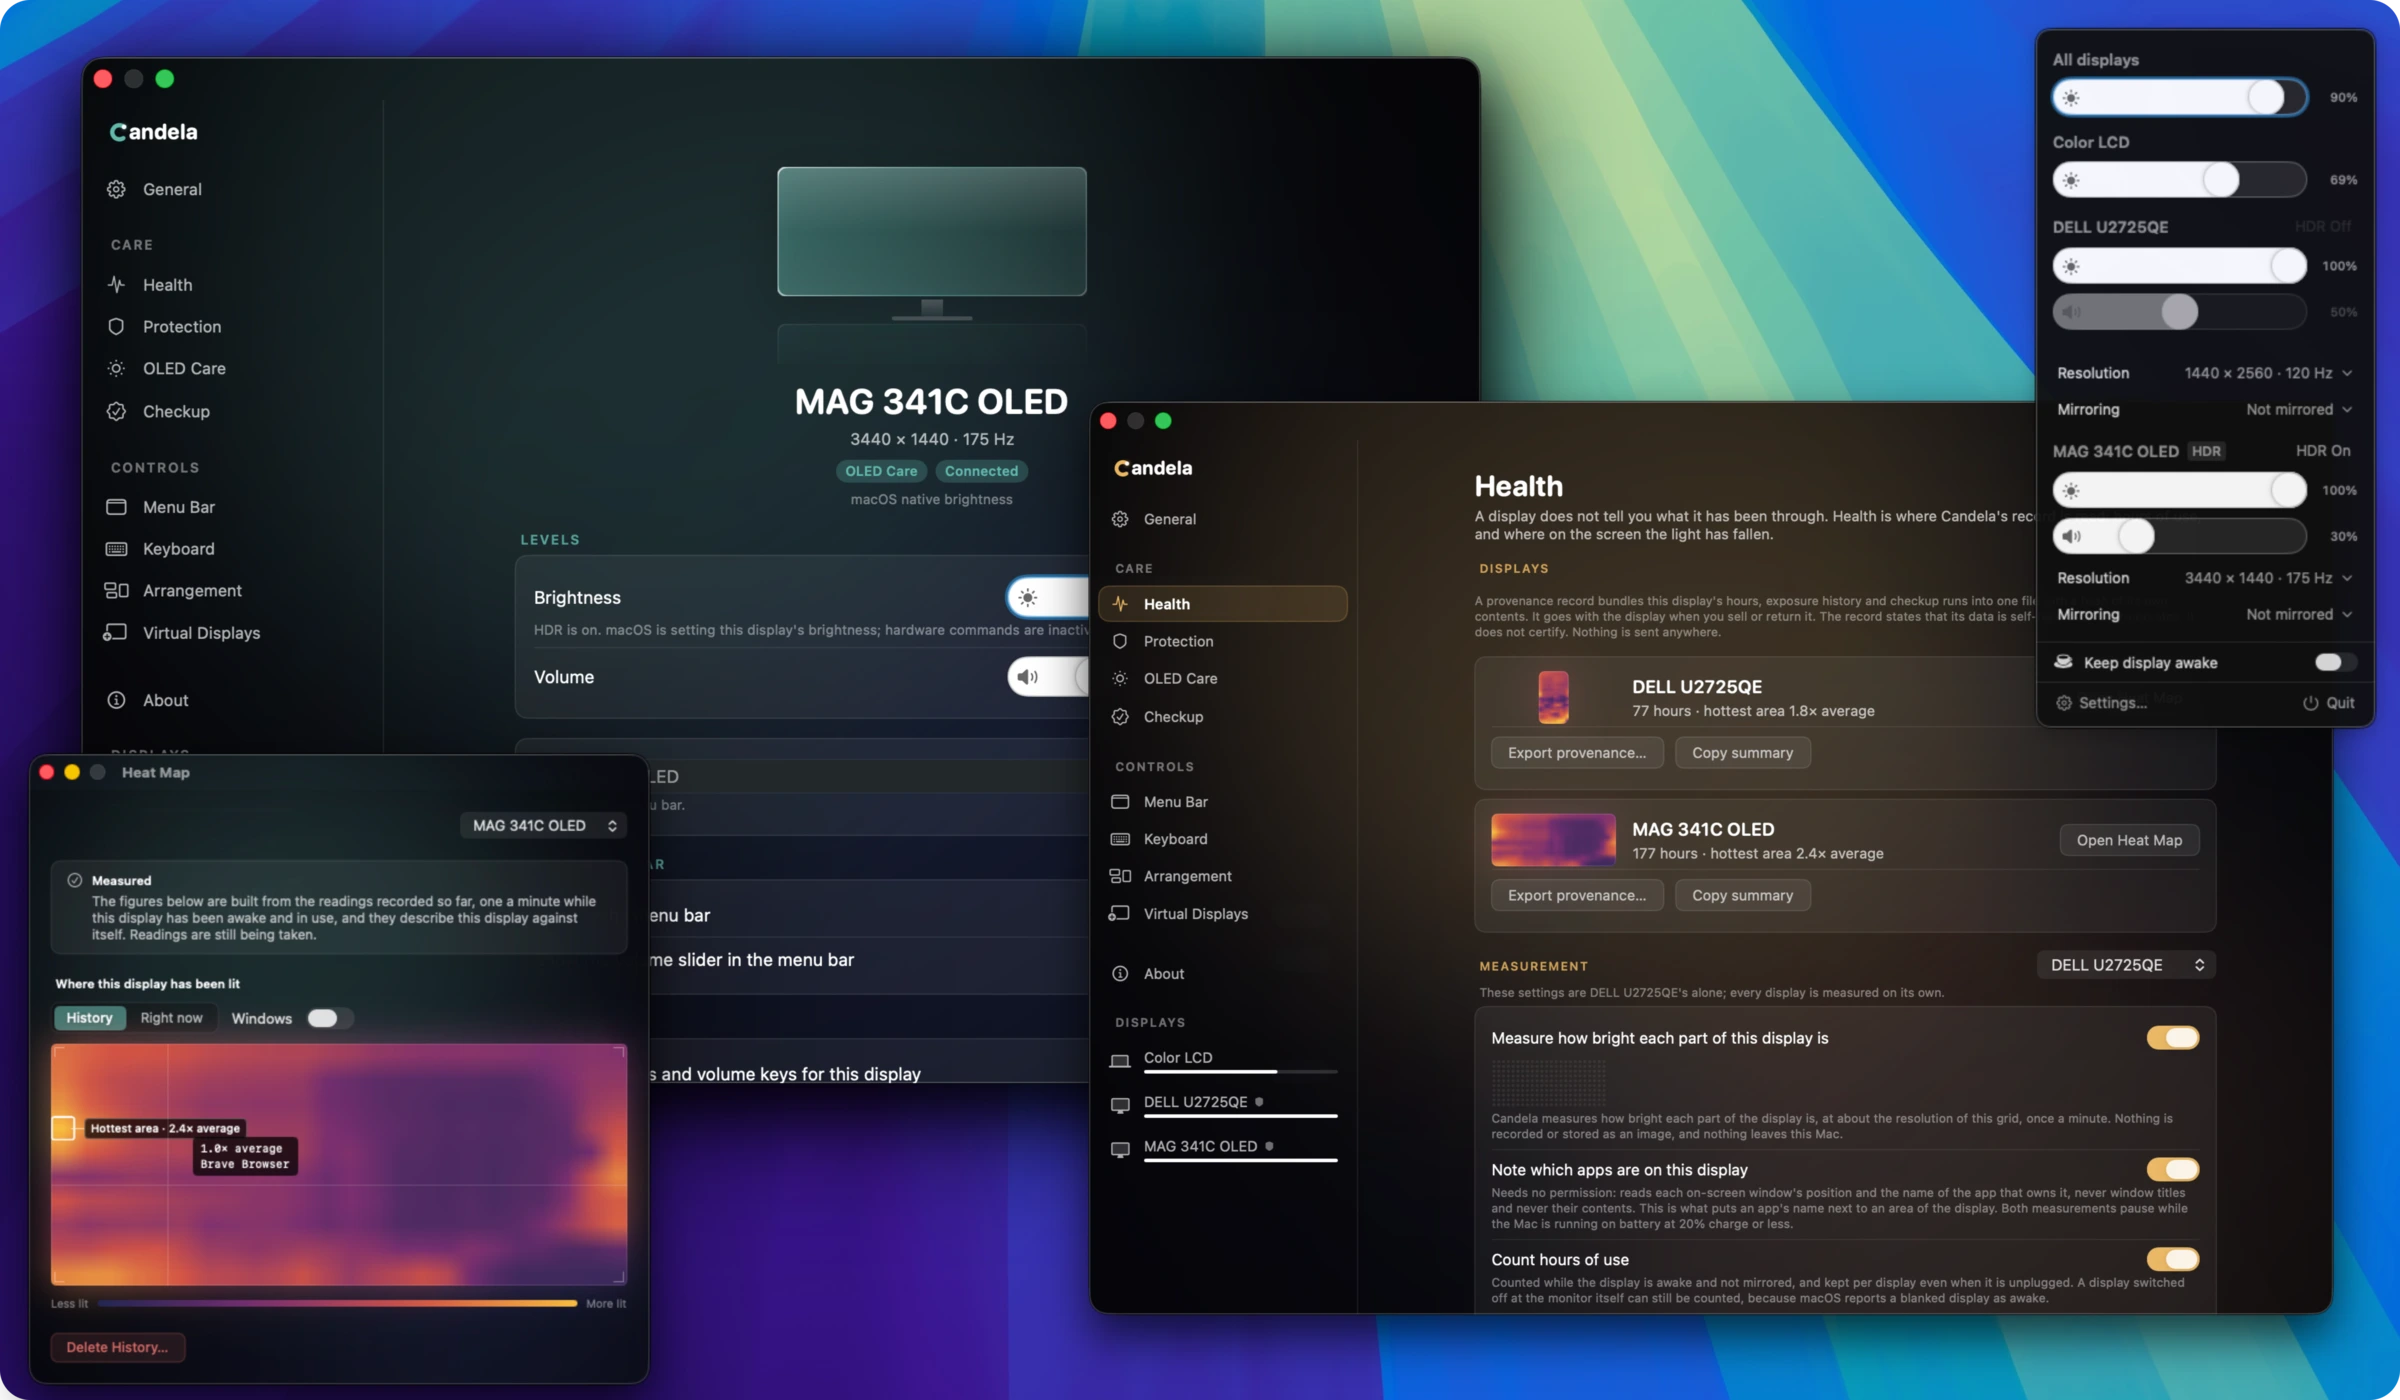
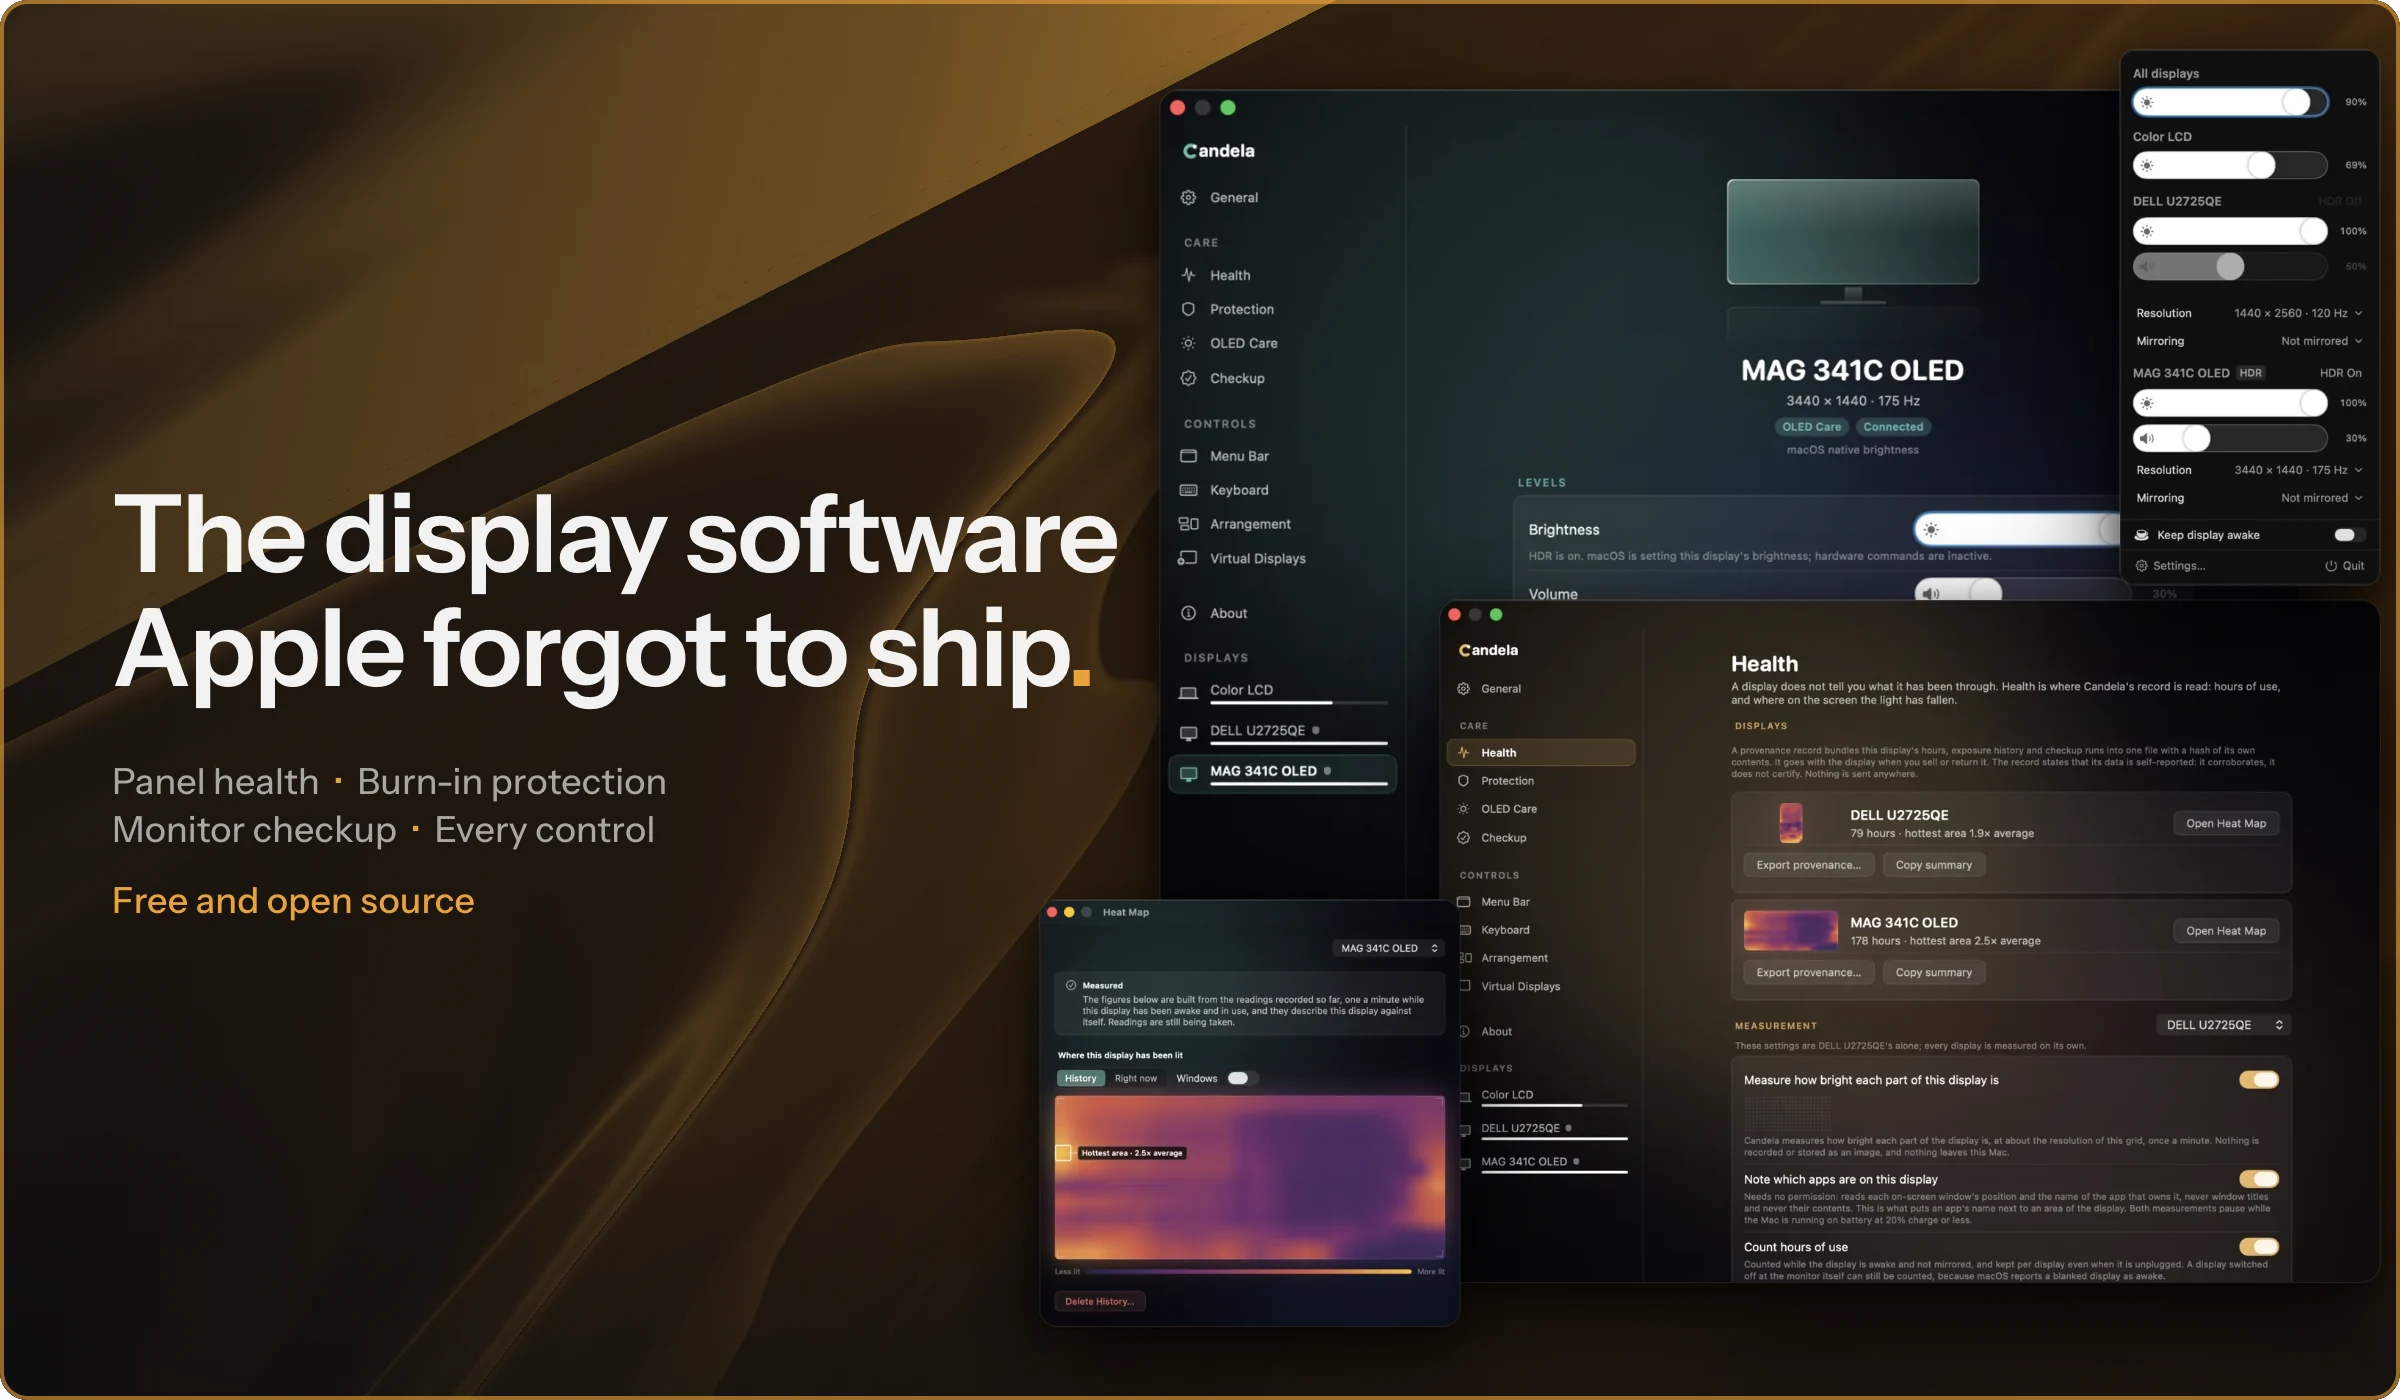
readme: the hero is the card with the app's windows
Replaces the wallpaper composite with the social card's hero variant,
rendered from site/social-card/card.html at hero=1&t=20: the headline and
pillars on the left, the same four windows on the right, a gold hairline
around the card. Same 2400x1400 size and transparent corners as before, and
the file is a fifth smaller. The alt text follows the new picture.

diff --git a/README.md b/README.md
@@ -26,7 +26,7 @@
 </p>
 
 <p align="center">
-  <img src=".github/assets/hero.webp" width="880" alt="Candela: a display's page, the Health pane, the heat map, and the menu-bar controls over a macOS desktop">
+  <img src=".github/assets/hero.webp" width="880" alt="Candela: the headline The display software Apple forgot to ship, beside a display's page, the Health pane, the heat map, and the menu-bar controls">
 </p>
 
 Other display apps adjust settings in the moment. Candela protects your panel over the years you own it: adaptive, real-time burn-in defense, a health record of the hours and light the panel has seen, and settings that survive sleep and replugs. A diagnostic checkup identifies defects and wear on any display, alongside a full suite of monitor controls that should have been built into macOS in the first place.
